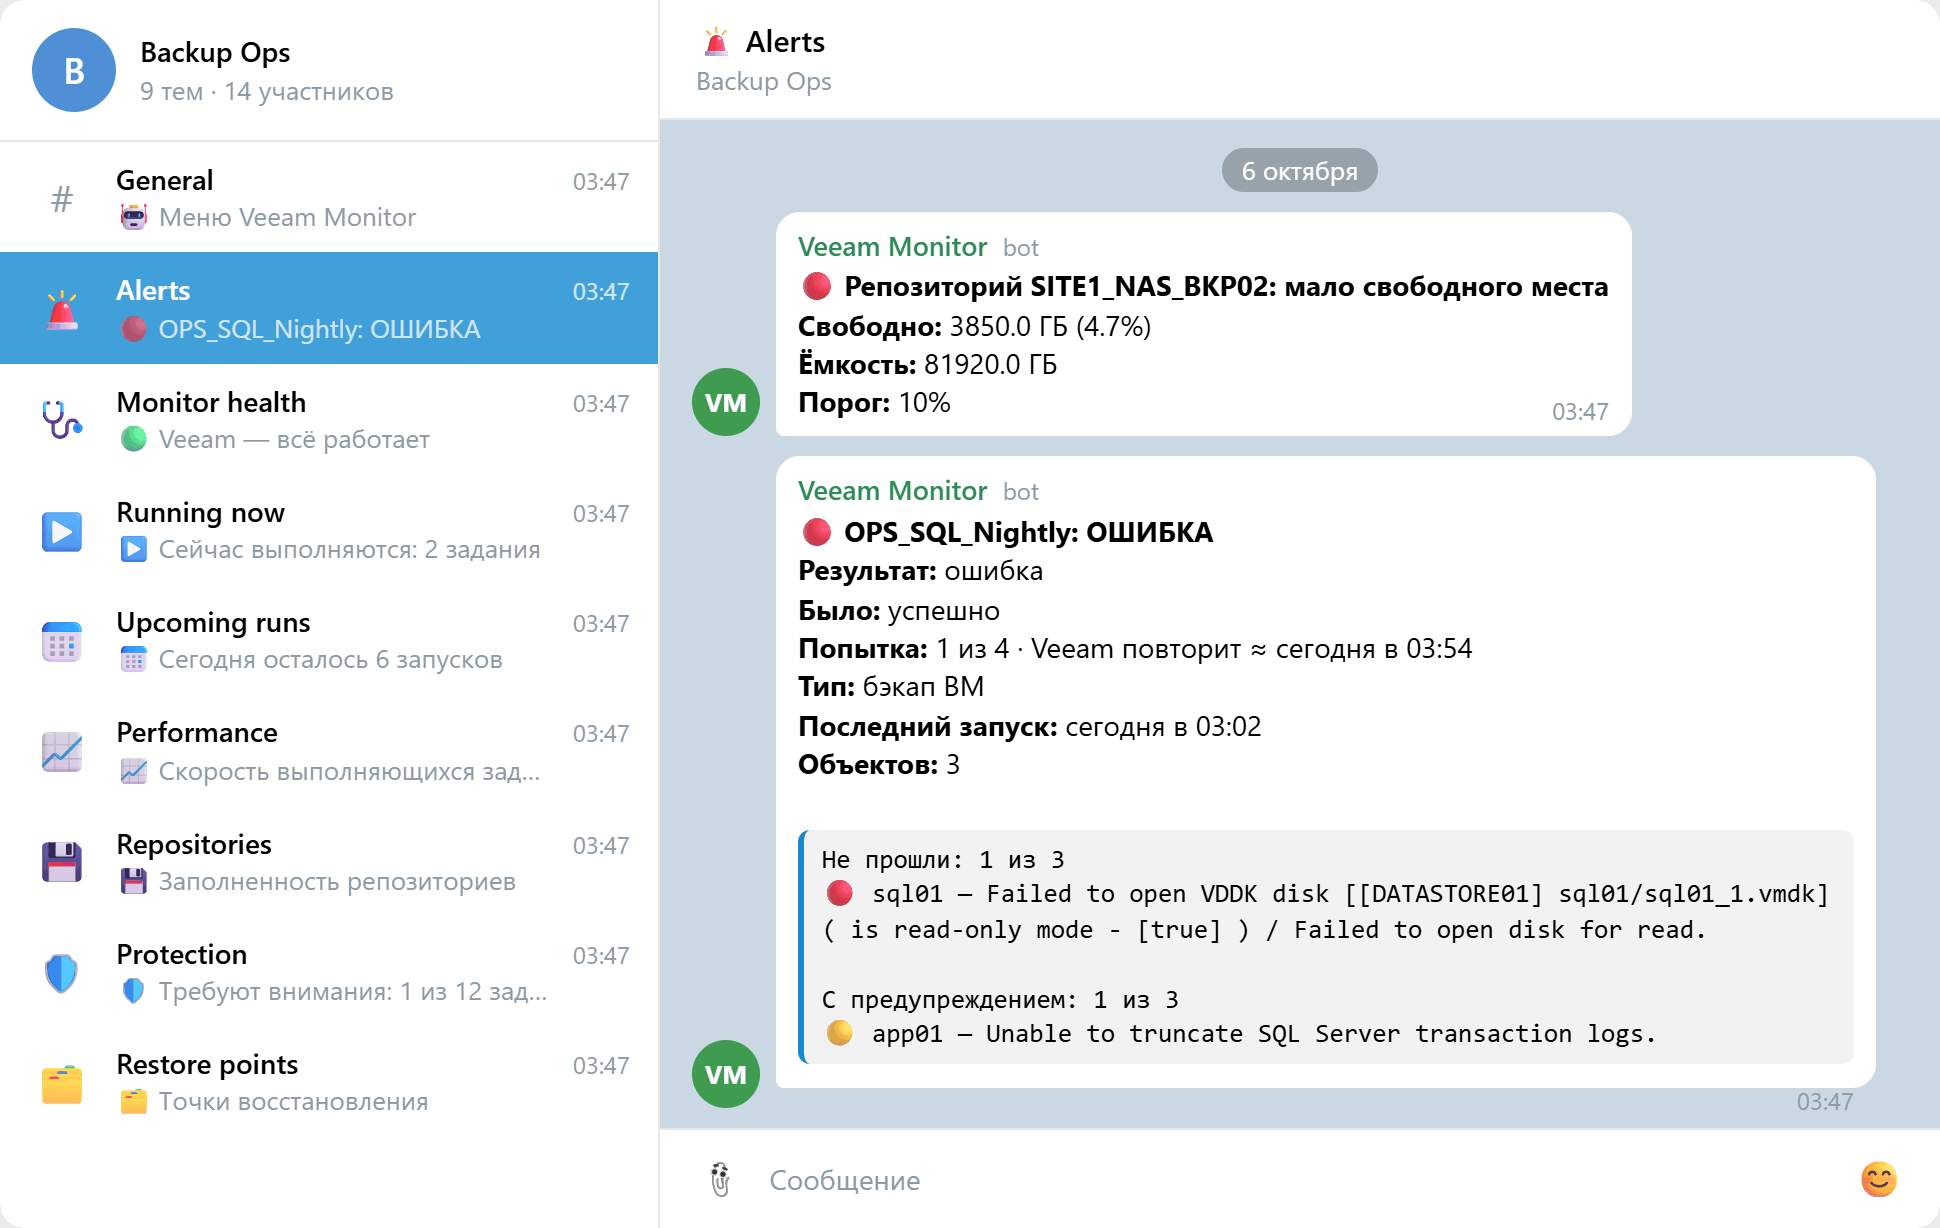
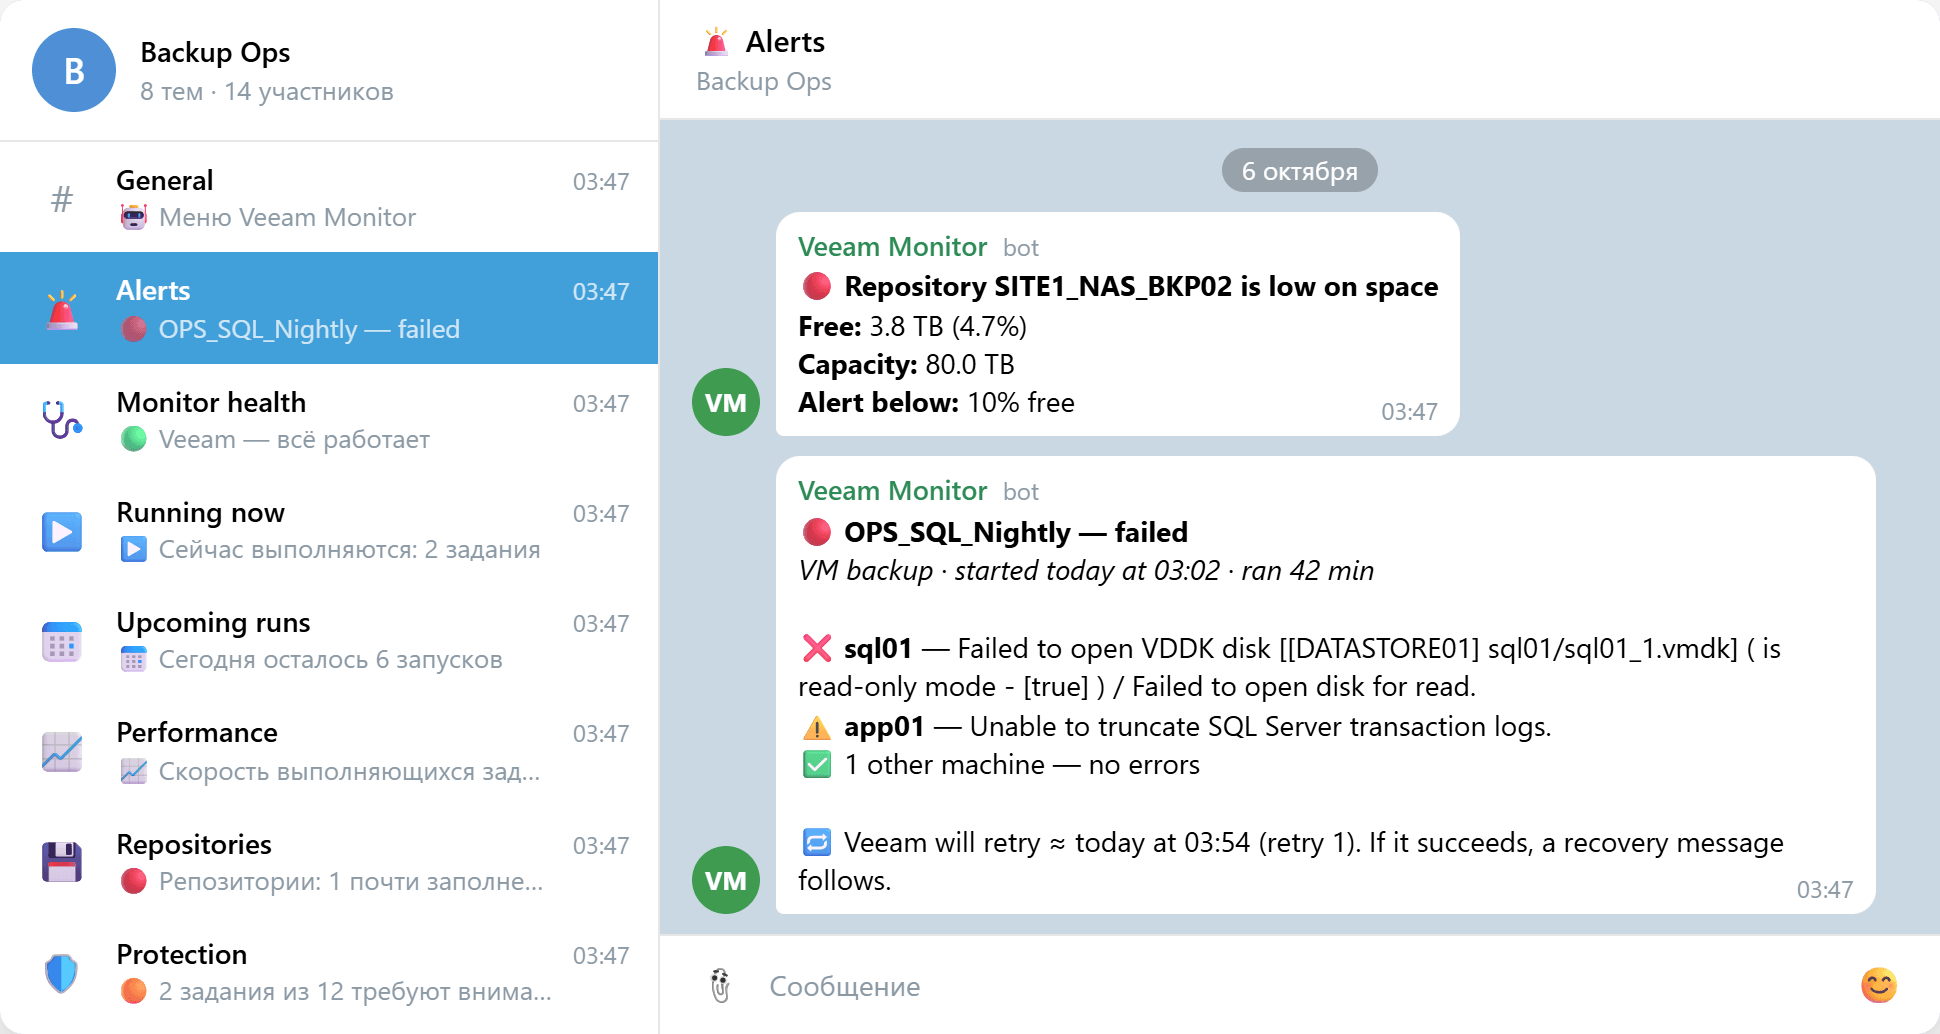
Show the English alerts and the merged 🛡 in the README's screenshots
Rendered again from the invented estate by the bot's own code: the alert in
English, 🛡 Protection with what 🗂 used to say, and 💾 in place of 🗂.

diff --git a/README.md b/README.md
@@ -81,10 +81,10 @@ Every minute the bot asks each Veeam server for its jobs and repositories, and t
 <sub>Rendered by the bot's own code from an invented estate: every job, machine and server name is made up.</sub>
 
 <p align="center">
-  <strong>Live topics: running now, protection, restore points</strong><br />
+  <strong>Live topics: running now, protection, repositories</strong><br />
   <picture>
     <source media="(prefers-color-scheme: dark)" srcset="docs/assets/screenshots/live-dark.png" />
-    <img src="docs/assets/screenshots/live-light.png" width="900" alt="Three live topics: two jobs running with their progress, one job three days without a restore point, and the jobs that missed a backup or a scheduled Full" />
+    <img src="docs/assets/screenshots/live-light.png" width="900" alt="Three live topics: two jobs running with their progress, the jobs that need attention — one three days without a backup, one past a scheduled Full — and the repositories, the fullest in red" />
   </picture>
 </p>
 
